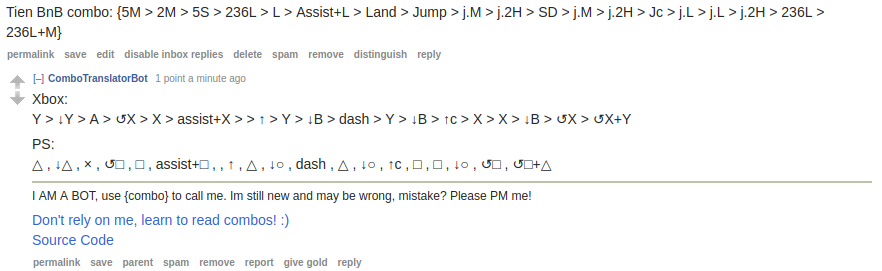
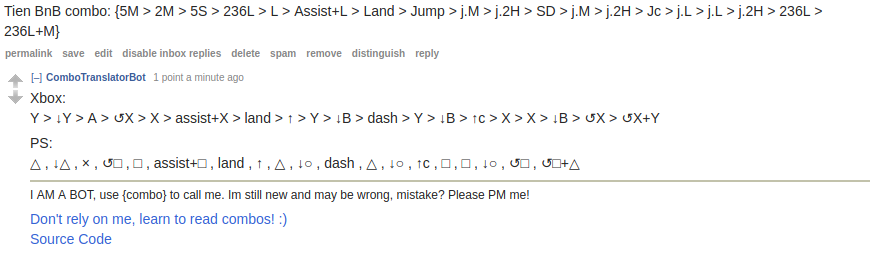
More phrases

Changed region(s): [[0.0, 0.2767, 1.0, 0.996], [0.0, 0.0, 0.949, 0.166], [0.0, 0.166, 0.5204, 0.249]]

diff --git a/main.py b/main.py
@@ -64,6 +64,8 @@ def textToComboXbox(text):
         's': 'A',
         'm': 'Y',
         'j': '↑',
+        'w': 'wait',
+        'L': 'land',
         'D': 'dash',
         'A': 'assist',
         'r': 'RB',
@@ -75,7 +77,7 @@ def textToComboXbox(text):
 
     # Replace common phrases with matching characters
     text = text.replace('dash','D').replace('vanish','v').replace('assist','A').replace('sd','D')\
-        .replace('jump','j').replace('land','').replace('lm','r').replace('ml','r').replace('sh','R')\
+        .replace('jump','j').replace('land','L').replace('wait','w').replace('lm','r').replace('ml','r').replace('sh','R')\
         .replace('hs','R').replace('mh','v').replace('hm','v').replace('a','A').replace('j.','')
 
     # Go over each character and translate it using the dictionary above
@@ -103,6 +105,8 @@ def textToComboPS(text):
         's': '×',
         'm': '△',
         'j': '↑',
+        'w': 'wait',
+        'L': 'land',
         'D': 'dash',
         'A': 'assist',
         'r': 'R1',
@@ -114,7 +118,7 @@ def textToComboPS(text):
 
     # Replace common phrases with matching characters
     text = text.replace('dash','D').replace('vanish','v').replace('assist','A').replace('sd','D')\
-        .replace('jump','j').replace('land','').replace('lm','r').replace('ml','r').replace('sh','R')\
+        .replace('jump','j').replace('land','L').replace('wait','w').replace('lm','r').replace('ml','r').replace('sh','R')\
         .replace('hs','R').replace('mh','v').replace('hm','v').replace('a','A').replace('j.','')
 
     # Go over each character and translate it using the dictionary above
